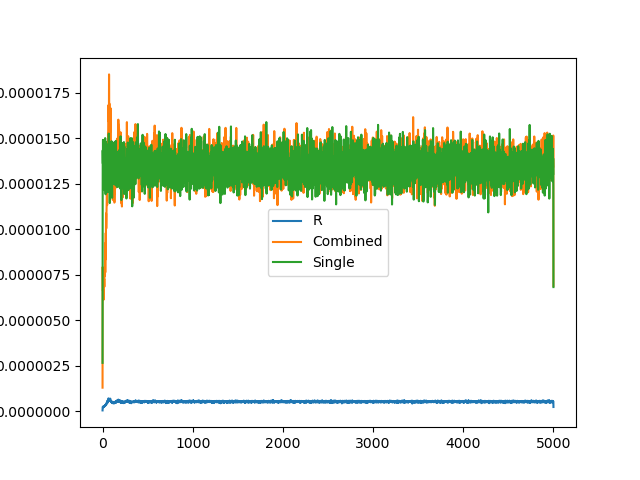
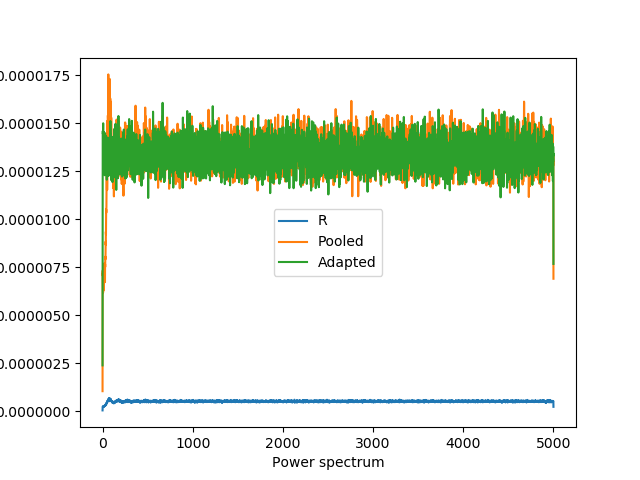
Fix labels

diff --git a/sven_paul_thomas_ex6/hint.py b/sven_paul_thomas_ex6/hint.py
@@ -51,6 +51,7 @@ if __name__=="__main__":
     x = np.arange(0.8/r,10/r,0.05/r)
     plt.plot(x,T*exp(x,1/r,tau),color="red")
     plt.savefig("poisson_tau.png")
+    plt.xlabel("Poisson ISIs with absolute refractory time")
     plt.clf()
 
     #b)
@@ -68,10 +69,11 @@ if __name__=="__main__":
 
     bins = np.arange(0,10/nu/K,0.5/nu/K)
 
-    plt.hist(np.diff(spikes1), bins=bins, histtype="step", label="Combined")
-    plt.hist(np.diff(spikes2), bins=bins, histtype="step", label="Single")
+    plt.hist(np.diff(spikes1), bins=bins, histtype="step", label="Pooled")
+    plt.hist(np.diff(spikes2), bins=bins, histtype="step", label="Adapted")
     plt.legend()
-    plt.savefig("poisson_combined_isi.png")
+    plt.xlabel("Pooled and adapted (regular poisson with increased firing rate) ISIs")
+    plt.savefig("poisson_pooled_isi.png")
     plt.clf()
 
     bins = np.arange(0,T,0.1)
@@ -79,14 +81,15 @@ if __name__=="__main__":
     hist1 = np.histogram(spikes1,bins=bins)[0]
     hist2 = np.histogram(spikes2,bins=bins)[0]
 
-    x = np.arange(0,max(hist1)+1.6,1)
+    x = np.arange(50,max(hist1)+5,1)
 
-    plt.hist(hist1, bins=x, histtype="step", label="Combined")
-    plt.hist(hist2, bins=x, histtype="step", label="Single")
+    plt.hist(hist1, bins=x, histtype="step", label="Pooled")
+    plt.hist(hist2, bins=x, histtype="step", label="Adapted")
     plt.plot(x,len(hist1)*poiss.pmf(x,0.1*nu*K), label="Theory")
 
+    plt.xlabel("Pooled and adapted (regular poisson with increased firing rate) spikes per 10ms")
     plt.legend()
-    plt.savefig("poisson_combined_10ms.png")
+    plt.savefig("poisson_pooled_10ms.png")
     plt.clf()
 
     #c)
@@ -96,7 +99,8 @@ if __name__=="__main__":
     ps_Knu = power_spectrum(spikes2,T)
 
     plt.plot(ps_R[0],ps_R[1],label="R")
-    plt.plot(ps_comb[0],ps_comb[1],label="Combined")
-    plt.plot(ps_Knu[0],ps_Knu[1],label="Single")
+    plt.plot(ps_comb[0],ps_comb[1],label="Pooled")
+    plt.plot(ps_Knu[0],ps_Knu[1],label="Adapted")
+    plt.xlabel("Power spectrum")
     plt.legend()
     plt.savefig("power_spectrum.png")
